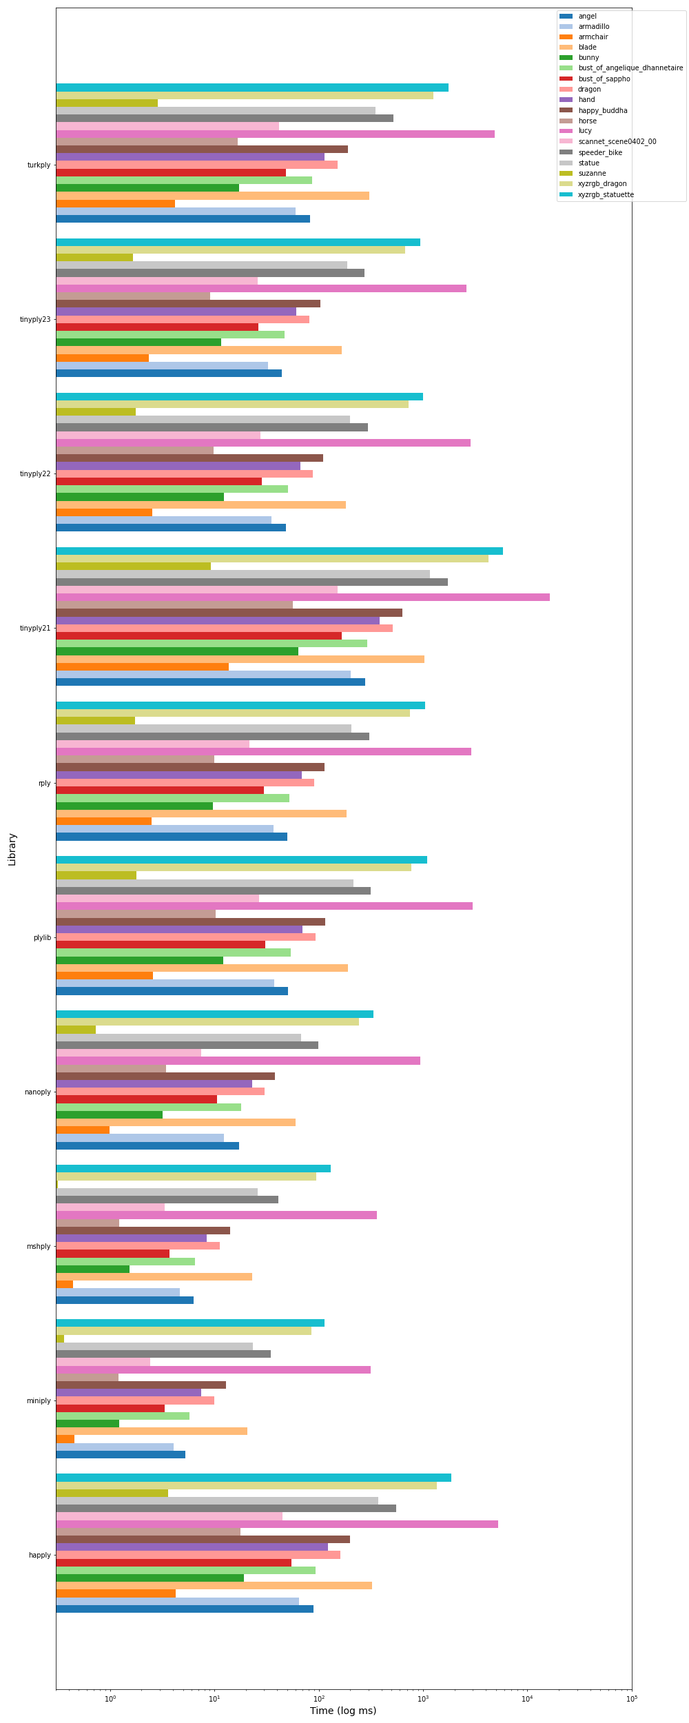
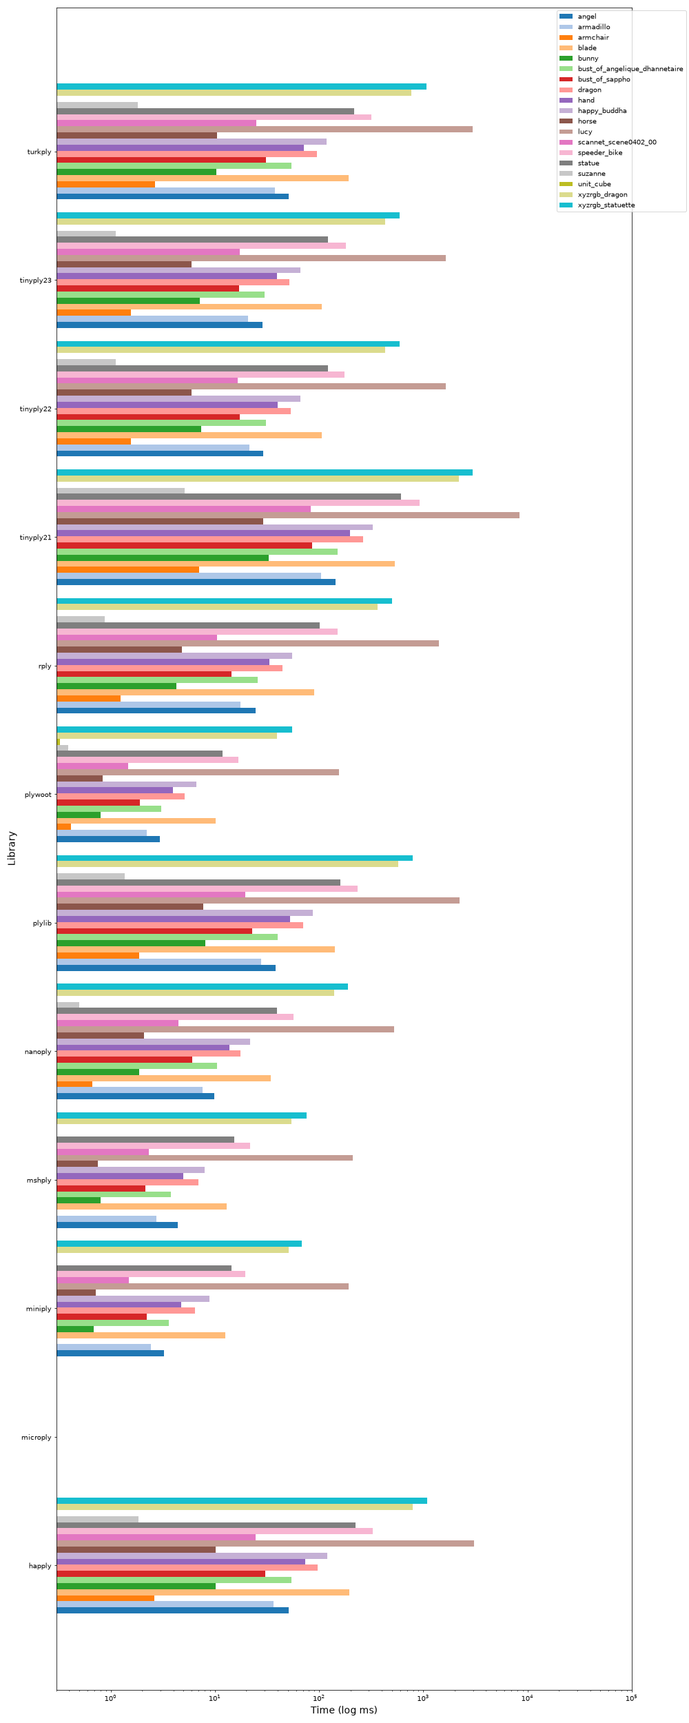
New results

diff --git a/assets/binary_read_full_table.md b/assets/binary_read_full_table.md
@@ -1,12 +1,14 @@
-|           |                  angel |              armadillo |               armchair |                  blade |                  bunny |bust_of_angelique_dhannetaire |         bust_of_sappho |                 dragon |                   hand |           happy_buddha |                  horse |                   lucy |   scannet_scene0402_00 |           speeder_bike |                 statue |                suzanne |          xyzrgb_dragon |       xyzrgb_statuette |
-|----------:|-----------------------:|-----------------------:|-----------------------:|-----------------------:|-----------------------:|-----------------------:|-----------------------:|-----------------------:|-----------------------:|-----------------------:|-----------------------:|-----------------------:|-----------------------:|-----------------------:|-----------------------:|-----------------------:|-----------------------:|-----------------------:|
-|happly     |    88.445 |    64.274 |     4.258 |   325.557 |    19.079 |    93.516 |    54.386 |   160.457 |   121.754 |   199.912 |    17.648 |  5262.958 |    44.660 |   550.460 |   370.124 |     3.571 |  1353.474 |  1875.299 |
-|miniply    |     5.230 |     4.038 |     0.453 |    20.545 |     1.218 |     5.782 |     3.351 |    10.001 |     7.517 |    12.814 |     1.200 |   314.586 |     2.406 |    34.778 |    23.374 |     0.361 |    85.584 |   113.582 |
-|mshply     |     6.291 |     4.655 |     0.442 |    23.160 |     1.530 |     6.529 |     3.713 |    11.306 |     8.460 |    14.123 |     1.221 |   358.437 |     3.344 |    40.842 |    26.081 |     0.316 |    94.944 |   130.534 |
-|nanoply    |    17.132 |    12.368 |     0.980 |    59.838 |     3.173 |    17.967 |    10.547 |    30.325 |    23.152 |    37.782 |     3.420 |   943.641 |     7.451 |    99.336 |    67.998 |     0.733 |   242.561 |   335.208 |
-|plylib     |    50.833 |    37.274 |     2.568 |   191.084 |    12.096 |    54.282 |    30.553 |    92.977 |    69.976 |   116.054 |    10.338 |  3001.837 |    26.881 |   314.834 |   215.549 |     1.789 |   773.190 |  1091.140 |
-|rply       |    49.650 |    36.663 |     2.477 |   183.797 |     9.671 |    52.231 |    29.577 |    90.467 |    68.424 |   113.416 |    10.006 |  2915.948 |    21.574 |   304.658 |   206.121 |     1.722 |   745.852 |  1046.701 |
-|tinyply21  |   277.337 |   202.876 |    13.613 |  1037.394 |    63.447 |   293.176 |   165.735 |   510.236 |   383.634 |   635.345 |    56.351 | 16423.687 |   152.337 |  1724.308 |  1166.416 |     9.289 |  4232.953 |  5851.870 |
-|tinyply22  |    48.296 |    35.261 |     2.535 |   182.717 |    12.333 |    50.620 |    28.639 |    87.839 |    66.538 |   110.064 |     9.812 |  2833.718 |    27.499 |   295.202 |   200.226 |     1.752 |   725.668 |  1006.522 |
-|tinyply23  |    44.378 |    32.509 |     2.342 |   165.429 |    11.649 |    46.669 |    26.434 |    81.102 |    60.951 |   102.839 |     9.085 |  2615.109 |    25.929 |   274.127 |   187.128 |     1.648 |   674.574 |   934.870 |
-|turkply    |    82.274 |    60.000 |     4.161 |   307.146 |    17.248 |    86.782 |    48.758 |   152.218 |   114.361 |   190.139 |    16.737 |  4881.280 |    41.446 |   515.975 |   349.348 |     2.862 |  1262.301 |  1755.570 |
+|           |                  angel |              armadillo |               armchair |                  blade |                  bunny |bust_of_angelique_dhannetaire |         bust_of_sappho |                 dragon |                   hand |           happy_buddha |                  horse |                   lucy |   scannet_scene0402_00 |           speeder_bike |                 statue |                suzanne |              unit_cube |          xyzrgb_dragon |       xyzrgb_statuette |
+|----------:|-----------------------:|-----------------------:|-----------------------:|-----------------------:|-----------------------:|-----------------------:|-----------------------:|-----------------------:|-----------------------:|-----------------------:|-----------------------:|-----------------------:|-----------------------:|-----------------------:|-----------------------:|-----------------------:|-----------------------:|-----------------------:|-----------------------:|
+|happly     |    51.307 |    36.780 |     2.617 |   194.600 |    10.109 |    54.651 |    30.396 |    96.459 |    73.851 |   119.480 |    10.134 |  3057.013 |    24.524 |   325.804 |   222.165 |     1.847 |     0.000 |   788.288 |  1089.001 |
+|microply   |     0.000 |     0.000 |     0.000 |     0.000 |     0.000 |     0.000 |     0.000 |     0.000 |     0.000 |     0.000 |     0.000 |     0.000 |     0.000 |     0.000 |     0.000 |     0.000 |     0.000 |     0.000 |     0.000 |
+|miniply    |     3.257 |     2.424 |     0.301 |    12.597 |     0.689 |     3.608 |     2.235 |     6.461 |     4.719 |     8.866 |     0.714 |   193.157 |     1.484 |    19.644 |    14.371 |     0.242 |     0.101 |    51.092 |    67.884 |
+|mshply     |     4.373 |     2.736 |     0.273 |    12.959 |     0.801 |     3.786 |     2.162 |     6.942 |     4.951 |     7.984 |     0.759 |   209.932 |     2.317 |    21.894 |    15.442 |     0.228 |     0.083 |    54.509 |    76.372 |
+|nanoply    |     9.910 |     7.596 |     0.665 |    34.606 |     1.884 |    10.554 |     6.058 |    17.706 |    13.851 |    21.786 |     2.082 |   528.220 |     4.503 |    57.006 |    39.385 |     0.496 |     0.163 |   139.277 |   189.836 |
+|plylib     |    38.106 |    27.652 |     1.890 |   142.325 |     8.043 |    40.283 |    22.681 |    70.013 |    52.490 |    87.644 |     7.767 |  2214.627 |    19.542 |   234.880 |   160.154 |     1.355 |     0.081 |   572.537 |   791.788 |
+|plywoot    |     2.956 |     2.218 |     0.414 |    10.126 |     0.802 |     3.052 |     1.894 |     5.117 |     3.934 |     6.659 |     0.839 |   154.298 |     1.478 |    16.936 |    11.788 |     0.391 |     0.326 |    39.711 |    55.055 |
+|rply       |    24.463 |    17.599 |     1.242 |    89.771 |     4.301 |    25.687 |    14.421 |    44.335 |    33.461 |    55.132 |     4.836 |  1401.407 |    10.428 |   150.138 |   102.045 |     0.874 |     0.076 |   362.501 |   501.380 |
+|tinyply21  |   143.124 |   104.801 |     7.057 |   529.376 |    33.024 |   150.948 |    85.741 |   263.490 |   197.531 |   326.551 |    29.137 |  8384.984 |    82.647 |   914.953 |   615.366 |     5.144 |     0.140 |  2196.075 |  2987.501 |
+|tinyply22  |    29.214 |    21.429 |     1.560 |   106.423 |     7.424 |    30.890 |    17.360 |    53.192 |    40.195 |    66.553 |     5.959 |  1649.370 |    16.547 |   176.639 |   120.815 |     1.111 |     0.136 |   428.999 |   593.572 |
+|tinyply23  |    28.627 |    20.811 |     1.555 |   105.864 |     7.171 |    30.181 |    17.053 |    52.235 |    39.366 |    65.810 |     5.942 |  1646.720 |    17.298 |   181.393 |   120.987 |     1.116 |     0.140 |   427.352 |   590.789 |
+|turkply    |    51.289 |    37.632 |     2.671 |   190.903 |    10.376 |    54.291 |    30.715 |    94.647 |    71.410 |   118.895 |    10.512 |  2995.316 |    25.130 |   317.476 |   216.611 |     1.830 |     0.078 |   771.513 |  1067.680 |

diff --git a/assets/binary_write_full_table.md b/assets/binary_write_full_table.md
@@ -1,11 +1,12 @@
-|           |                  angel |              armadillo |               armchair |                  blade |                  bunny |bust_of_angelique_dhannetaire |         bust_of_sappho |                 dragon |                   hand |           happy_buddha |                  horse |                   lucy |   scannet_scene0402_00 |           speeder_bike |                 statue |                suzanne |          xyzrgb_dragon |       xyzrgb_statuette |
-|----------:|-----------------------:|-----------------------:|-----------------------:|-----------------------:|-----------------------:|-----------------------:|-----------------------:|-----------------------:|-----------------------:|-----------------------:|-----------------------:|-----------------------:|-----------------------:|-----------------------:|-----------------------:|-----------------------:|-----------------------:|-----------------------:|
-|happly     |   220.528 |   157.640 |    13.329 |   805.793 |    35.839 |   230.896 |   140.035 |   397.211 |   290.141 |   503.060 |    46.380 | 13193.011 |    85.328 |  1345.406 |   903.420 |    11.094 |  3268.281 |  4541.939 |
-|mshply     |    14.276 |    10.920 |     4.234 |    41.504 |     6.176 |    13.669 |    21.503 |    23.386 |    17.089 |    26.574 |     5.267 |   630.551 |     9.754 |    68.129 |    46.685 |     3.948 |   157.048 |   220.589 |
-|nanoply    |    24.729 |    17.581 |     4.315 |    61.826 |     7.752 |    23.997 |    27.460 |    36.958 |    26.348 |    43.461 |     7.497 |   903.703 |    14.176 |   101.987 |    72.508 |     4.320 |   234.622 |   325.996 |
-|plylib     |    50.769 |    36.744 |     5.990 |   178.403 |    11.289 |    51.877 |    43.471 |    92.128 |    66.856 |   109.671 |    13.208 |  2788.711 |    24.394 |   289.656 |   201.366 |     5.378 |   715.110 |   996.618 |
-|rply       |    45.732 |    31.834 |     5.922 |   145.537 |    16.260 |    48.314 |    39.252 |    75.421 |    55.912 |    93.812 |    11.438 |  2307.140 |    21.904 |   243.069 |   163.749 |     5.186 |   591.606 |   812.830 |
-|tinyply21  |   225.086 |   162.373 |    14.647 |   817.570 |    37.383 |   233.447 |   144.652 |   405.959 |   302.321 |   499.618 |    48.835 | 12858.260 |    88.514 |  1363.921 |   925.859 |    11.006 |  3322.588 |  4633.514 |
-|tinyply22  |    82.974 |    63.026 |     8.198 |   296.006 |    17.260 |    87.133 |    63.045 |   150.758 |   114.110 |   183.083 |    20.094 |  4665.612 |    36.971 |   488.466 |   330.931 |     6.800 |  1198.054 |  1662.805 |
-|tinyply23  |    88.656 |    64.407 |     8.006 |   313.482 |    17.327 |    91.530 |    66.100 |   159.694 |   119.045 |   197.390 |    20.809 |  4977.320 |    38.156 |   518.585 |   355.445 |     6.905 |  1276.036 |  1773.292 |
-|turkply    |    98.136 |    72.246 |     8.464 |   349.143 |    18.465 |   101.845 |    71.626 |   176.988 |   132.032 |   216.926 |    22.223 |  5540.560 |    42.713 |   585.072 |   396.622 |     7.011 |  1425.870 |  1978.077 |
+|           |                  angel |              armadillo |               armchair |                  blade |                  bunny |bust_of_angelique_dhannetaire |         bust_of_sappho |                 dragon |                   hand |           happy_buddha |                  horse |                   lucy |   scannet_scene0402_00 |           speeder_bike |                 statue |                suzanne |              unit_cube |          xyzrgb_dragon |       xyzrgb_statuette |
+|----------:|-----------------------:|-----------------------:|-----------------------:|-----------------------:|-----------------------:|-----------------------:|-----------------------:|-----------------------:|-----------------------:|-----------------------:|-----------------------:|-----------------------:|-----------------------:|-----------------------:|-----------------------:|-----------------------:|-----------------------:|-----------------------:|-----------------------:|
+|happly     |   114.605 |    83.227 |     5.344 |   413.595 |    16.138 |   118.423 |    63.464 |   201.274 |   148.630 |   256.504 |    22.219 |  6633.298 |    43.601 |   673.905 |   457.450 |     3.924 |     0.000 |  1643.305 |  2307.627 |
+|mshply     |     7.316 |     4.086 |     1.382 |    20.892 |     1.303 |     5.759 |     3.372 |    11.025 |     7.760 |    12.960 |     2.018 |   326.124 |     5.482 |    35.133 |    25.002 |     1.565 |     0.202 |    81.553 |   116.675 |
+|nanoply    |    13.377 |     9.121 |     1.477 |    33.520 |     2.203 |    13.578 |     7.057 |    18.969 |    14.082 |    23.348 |     2.669 |   504.545 |     7.588 |    55.995 |    39.209 |     1.481 |     0.176 |   130.001 |   180.181 |
+|plylib     |    33.126 |    23.309 |     1.873 |   115.238 |     4.982 |    33.176 |    18.623 |    57.936 |    43.753 |    70.947 |     6.623 |  1884.256 |    14.763 |   191.970 |   130.443 |     1.844 |     0.224 |   473.598 |   657.855 |
+|plywoot    |    12.531 |     8.909 |     1.745 |    41.930 |     2.799 |    11.829 |     7.057 |    20.320 |    15.583 |    25.940 |     2.883 |   643.410 |     7.472 |    68.084 |    46.446 |     1.585 |     0.324 |   164.550 |   229.457 |
+|rply       |    20.204 |    13.541 |     1.432 |    68.808 |     3.145 |    19.764 |    13.972 |    35.308 |    25.920 |    43.224 |     4.322 |  1107.694 |    10.102 |   115.002 |    79.495 |     1.829 |     0.159 |   282.038 |   397.560 |
+|tinyply21  |    86.071 |    62.005 |     4.585 |   318.938 |    13.064 |    90.938 |    51.315 |   157.939 |   118.969 |   196.016 |    17.991 |  5127.718 |    38.132 |   556.893 |   369.232 |     3.486 |     0.426 |  1354.078 |  1832.296 |
+|tinyply22  |    34.003 |    24.255 |     1.990 |   122.605 |     5.371 |    35.759 |    19.872 |    61.852 |    45.676 |    75.559 |     7.087 |  1962.662 |    15.429 |   202.194 |   139.132 |     1.807 |     0.238 |   496.989 |   693.797 |
+|tinyply23  |    34.091 |    24.168 |     2.062 |   122.477 |     5.278 |    34.557 |    19.506 |    60.871 |    45.471 |    75.282 |     7.143 |  1985.028 |    16.465 |   208.998 |   143.223 |     2.049 |     0.219 |   495.946 |   699.383 |
+|turkply    |    55.369 |    38.855 |     2.642 |   196.343 |     7.939 |    56.856 |    31.281 |    96.742 |    72.847 |   122.981 |    10.843 |  3195.042 |    22.666 |   329.815 |   225.639 |     2.249 |     0.281 |   817.856 |  1140.415 |

diff --git a/assets/ascii_read_full_table.md b/assets/ascii_read_full_table.md
@@ -1,13 +1,14 @@
 |           |                  angel |              armadillo |               armchair |                  blade |                  bunny |bust_of_angelique_dhannetaire |         bust_of_sappho |                 dragon |                   hand |           happy_buddha |                  horse |                   lucy |   scannet_scene0402_00 |           speeder_bike |                 statue |                suzanne |          xyzrgb_dragon |       xyzrgb_statuette |
 |----------:|-----------------------:|-----------------------:|-----------------------:|-----------------------:|-----------------------:|-----------------------:|-----------------------:|-----------------------:|-----------------------:|-----------------------:|-----------------------:|-----------------------:|-----------------------:|-----------------------:|-----------------------:|-----------------------:|-----------------------:|-----------------------:|
-|happly     |     0.000 |  1784.472 |   118.915 |  8670.360 |   439.915 |     0.000 |     0.000 |  4481.201 |  3331.531 |  5592.547 |   496.337 |145947.836 |  1223.984 | 15226.472 | 10386.426 |    80.341 | 37172.141 | 51617.590 |
-|microply   |   170.248 |   121.155 |     8.017 |   501.468 |    33.457 |   276.342 |   151.115 |   306.123 |   225.599 |   381.618 |    34.119 | 10114.534 |    75.482 |  1051.357 |   711.489 |     5.437 |  2601.632 |  3602.354 |
-|miniply    |    40.852 |    30.280 |     2.332 |   134.499 |     7.739 |    52.000 |    29.110 |    71.209 |    51.533 |    88.732 |     8.530 |  2253.975 |    19.298 |   238.858 |   159.580 |     2.030 |   577.165 |   798.351 |
-|mshply     |   293.840 |   206.977 |    13.192 |   904.990 |    55.663 |   462.922 |   248.969 |   542.321 |   388.762 |   678.744 |    58.659 | 18034.860 |   127.533 |  1851.897 |  1239.134 |     9.055 |  4621.878 |  6439.838 |
-|nanoply    |  1214.030 |   863.302 |    55.382 |  4102.847 |   221.426 |  1719.558 |   946.103 |  2164.268 |  1590.781 |  2698.421 |   237.606 | 71752.611 |   580.219 |  7434.243 |  5079.409 |    37.881 | 18189.628 | 25179.098 |
-|plylib     |   476.120 |   345.294 |    23.636 |  1624.023 |    91.548 |   775.692 |   432.038 |   888.196 |   640.481 |  1100.926 |   100.276 | 27913.594 |   232.122 |  2944.850 |  1984.270 |    17.662 |  7233.144 | 10008.429 |
-|rply       |   255.641 |   183.188 |    11.662 |   810.350 |    48.565 |   396.401 |   218.622 |   462.969 |   343.504 |   577.013 |    50.672 | 15505.927 |   116.709 |  1604.587 |  1076.422 |     7.905 |  3985.982 |  5512.328 |
-|tinyply21  |  1752.946 |  1258.073 |    81.694 |  6087.122 |   287.321 |  2077.615 |  1157.690 |  3167.115 |  2343.569 |  3939.687 |   350.333 |103656.878 |   777.874 | 10823.005 |  7417.755 |    55.396 | 26523.707 | 36753.962 |
-|tinyply22  |  1149.408 |   824.110 |    52.987 |  3877.018 |   177.867 |  1307.636 |   723.416 |  2055.345 |  1515.408 |  2562.497 |   226.982 | 67773.530 |   474.789 |  7077.513 |  4839.779 |    36.076 | 17364.324 | 24073.700 |
-|tinyply23  |  1134.152 |   811.953 |    52.710 |  3824.634 |   176.151 |  1289.369 |   715.222 |  2021.834 |  1491.002 |  2523.636 |   223.752 | 67416.315 |   468.571 |  6996.360 |  4776.635 |    35.431 | 17187.982 | 23869.487 |
-|turkply    |   308.290 |   223.986 |    14.545 |   988.635 |    56.336 |   462.039 |   249.270 |   571.017 |   420.858 |   707.014 |    61.849 | 18694.304 |   132.315 |  1933.317 |  1298.440 |     9.732 |  4770.202 |  6655.787 |
+|happly     |   883.387 |   641.727 |    42.087 |  3131.651 |   156.351 |     0.000 |     0.000 |  1602.839 |  1181.657 |  2005.578 |   178.961 | 52653.845 |   439.901 |  5467.897 |  3698.055 |    29.695 | 13428.564 | 18656.723 |
+|microply   |    77.128 |    54.926 |     4.024 |   226.468 |    15.244 |   125.002 |    67.766 |   136.117 |   100.680 |   168.470 |    15.453 |  4496.079 |    33.207 |   470.260 |   317.198 |     2.417 |  1158.847 |  1590.081 |
+|miniply    |    22.955 |    17.048 |     1.096 |    74.568 |     4.075 |    27.451 |    15.179 |    38.876 |    27.674 |    48.366 |     4.373 |  1212.265 |    10.378 |   130.192 |    86.422 |     0.722 |   314.119 |   435.382 |
+|mshply     |   138.279 |    97.402 |     5.813 |   422.254 |    25.811 |   211.356 |   115.465 |   255.368 |   180.818 |   317.726 |    27.442 |  8499.569 |    60.578 |   868.517 |   579.271 |     3.979 |  2163.848 |  2997.318 |
+|nanoply    |   436.256 |   316.204 |    19.935 |  1487.510 |    78.399 |   588.202 |   325.861 |   786.297 |   568.594 |   976.928 |    88.085 | 25916.288 |   208.041 |  2665.646 |  1826.070 |    13.302 |  6557.880 |  9153.084 |
+|plylib     |   196.547 |   142.936 |     9.270 |   663.273 |    37.402 |   310.657 |   174.360 |   366.671 |   264.512 |   458.081 |    40.765 | 11430.270 |    97.311 |  1214.951 |   816.146 |     6.653 |  2964.687 |  4123.064 |
+|plywoot    |    67.312 |    48.165 |     3.199 |   188.293 |    10.735 |    75.899 |    42.454 |   120.315 |    85.361 |   149.304 |    13.344 |  3845.223 |    27.037 |   405.676 |   273.418 |     2.264 |  1014.269 |  1383.785 |
+|rply       |   103.839 |    74.492 |     4.712 |   303.512 |    20.269 |   162.130 |    88.458 |   181.617 |   132.422 |   225.446 |    20.921 |  5943.651 |    48.025 |   616.688 |   414.843 |     3.240 |  1536.976 |  2114.271 |
+|tinyply21  |   678.383 |   494.049 |    31.387 |  2367.008 |   114.190 |   827.203 |   460.254 |  1235.755 |   897.213 |  1538.394 |   137.382 | 40396.197 |   306.866 |  4180.664 |  2846.065 |    21.329 | 10299.247 | 14353.333 |
+|tinyply22  |   422.226 |   304.582 |    19.049 |  1437.438 |    66.432 |   479.747 |   268.829 |   759.866 |   550.158 |   947.037 |    84.994 | 25171.140 |   176.113 |  2584.433 |  1775.150 |    12.993 |  6352.553 |  8887.962 |
+|tinyply23  |   419.988 |   306.700 |    19.108 |  1440.979 |    65.872 |   483.466 |   269.623 |   757.595 |   545.537 |   941.641 |    85.264 | 25202.882 |   174.064 |  2578.180 |  1772.398 |    12.853 |  6349.414 |  8896.340 |
+|turkply    |   133.481 |    94.249 |     5.867 |   405.303 |    24.433 |   191.322 |   104.641 |   238.777 |   174.421 |   296.331 |    26.234 |  7791.011 |    56.524 |   812.384 |   546.313 |     3.926 |  2002.717 |  2772.913 |

diff --git a/assets/ascii_write_full_table.md b/assets/ascii_write_full_table.md
@@ -1,11 +1,12 @@
 |           |                  angel |              armadillo |               armchair |                  blade |                  bunny |bust_of_angelique_dhannetaire |         bust_of_sappho |                 dragon |                   hand |           happy_buddha |                  horse |                   lucy |   scannet_scene0402_00 |           speeder_bike |                 statue |                suzanne |          xyzrgb_dragon |       xyzrgb_statuette |
 |----------:|-----------------------:|-----------------------:|-----------------------:|-----------------------:|-----------------------:|-----------------------:|-----------------------:|-----------------------:|-----------------------:|-----------------------:|-----------------------:|-----------------------:|-----------------------:|-----------------------:|-----------------------:|-----------------------:|-----------------------:|-----------------------:|
-|happly     |     0.000 |  1082.385 |    75.054 |  5394.654 |   223.139 |     0.000 |     0.000 |  2685.578 |  2024.498 |  3377.741 |   303.442 | 87990.449 |   575.365 |  9162.074 |  6215.075 |    52.436 | 22539.121 | 31310.185 |
-|mshply     |   636.233 |   460.677 |    32.822 |  2337.234 |    95.821 |   654.982 |   369.309 |  1153.393 |   850.805 |  1433.740 |   128.633 | 37485.582 |   244.925 |  3867.637 |  2619.168 |    23.425 |  9525.258 | 13291.650 |
-|nanoply    |  1348.396 |   975.310 |    67.456 |  4897.357 |   203.195 |  1402.495 |   792.357 |  2486.349 |  1833.170 |  3080.349 |   279.858 | 78423.314 |   519.292 |  8223.574 |  5567.840 |    49.517 | 20037.909 | 27711.484 |
-|plylib     |   457.922 |   333.572 |    24.561 |  1638.777 |    72.036 |   505.162 |   286.573 |   859.028 |   619.882 |  1071.872 |    96.432 | 27312.697 |   184.327 |  2841.028 |  1905.589 |    18.848 |  6941.210 |  9643.137 |
-|rply       |   609.781 |   442.681 |    31.864 |  2192.624 |    94.710 |   632.235 |   360.014 |  1139.574 |   827.868 |  1421.977 |   128.893 | 35318.924 |   236.477 |  3751.085 |  2524.026 |    25.556 |  9106.262 | 12552.671 |
-|tinyply21  |  1474.259 |  1068.016 |    73.284 |  5393.185 |   221.580 |  1540.420 |   870.206 |  2742.333 |  2016.925 |  3407.911 |   304.475 | 86208.005 |   567.604 |  9085.286 |  6134.986 |    52.581 | 22156.857 | 30692.067 |
-|tinyply22  |  1506.848 |  1098.698 |    75.687 |  5488.472 |   227.880 |  1584.562 |   892.746 |  2801.347 |  2063.148 |  3476.269 |   311.379 | 87895.490 |   578.697 |  9282.130 |  6267.719 |    53.041 | 22693.798 | 31371.449 |
-|tinyply23  |  1471.047 |  1071.363 |    73.473 |  5353.151 |   223.153 |  1539.726 |   870.684 |  2730.562 |  2013.990 |  3395.636 |   307.031 | 86083.048 |   568.115 |  9036.070 |  6136.620 |    53.124 | 22141.241 | 30697.163 |
-|turkply    |   614.742 |   448.412 |    32.288 |  2225.506 |    95.255 |   638.350 |   363.876 |  1149.471 |   842.986 |  1426.148 |   129.430 | 35821.573 |   241.227 |  3771.397 |  2551.556 |    24.535 |  9198.683 | 12742.084 |
+|happly     |   565.844 |   411.255 |    27.219 |  2025.593 |    79.863 |     0.000 |     0.000 |  1010.497 |   769.054 |  1264.480 |   110.373 | 34548.564 |   217.270 |  3552.470 |  2416.475 |    18.655 |  8790.975 | 12218.742 |
+|mshply     |   222.821 |   166.035 |    10.615 |   821.693 |    33.045 |   232.212 |   131.797 |   407.180 |   299.636 |   506.066 |    44.727 | 13651.836 |    87.823 |  1388.252 |   928.807 |     7.598 |  3455.895 |  4811.877 |
+|nanoply    |   488.625 |   353.186 |    23.514 |  1769.303 |    73.176 |   518.151 |   286.143 |   914.245 |   663.139 |  1133.881 |   100.524 | 28765.712 |   198.886 |  3017.723 |  2054.683 |    16.576 |  7414.952 | 10308.199 |
+|plylib     |   187.091 |   131.238 |     8.538 |   648.256 |    28.321 |   164.419 |    93.252 |   354.460 |   246.319 |   432.235 |    38.876 | 11088.968 |    72.649 |  1146.464 |   767.057 |     6.449 |  2844.824 |  3909.242 |
+|plywoot    |    46.694 |    32.307 |     2.344 |   167.531 |     7.142 |    43.737 |    23.876 |    89.298 |    52.977 |    99.120 |     9.344 |  2711.543 |    21.085 |   266.622 |   171.003 |     3.876 |   667.893 |   968.624 |
+|rply       |   224.812 |   160.128 |    10.610 |   790.838 |    33.578 |   232.071 |   131.245 |   415.079 |   298.965 |   518.609 |    46.189 | 13222.052 |    88.374 |  1379.556 |   928.303 |     7.948 |  3387.122 |  4728.606 |
+|tinyply21  |   545.314 |   387.763 |    25.878 |  1966.032 |    79.806 |   585.550 |   314.161 |  1002.953 |   730.913 |  1260.155 |   109.776 | 31492.508 |   215.824 |  3348.606 |  2262.154 |    18.178 |  8150.814 | 11286.773 |
+|tinyply22  |   543.837 |   394.065 |    26.232 |  1978.098 |    81.450 |   568.218 |   317.160 |  1011.714 |   737.934 |  1259.763 |   112.480 | 31812.652 |   211.256 |  3379.466 |  2323.949 |    18.711 |  8221.720 | 11352.533 |
+|tinyply23  |   508.740 |   369.531 |    24.857 |  1845.647 |    76.000 |   529.675 |   308.023 |   942.248 |   691.393 |  1201.959 |   104.282 | 29811.905 |   195.087 |  3147.851 |  2132.560 |    17.292 |  7715.605 | 10640.929 |
+|turkply    |   232.254 |   164.757 |    12.198 |   829.518 |    34.748 |   238.637 |   135.146 |   432.684 |   308.893 |   535.446 |    47.052 | 13729.157 |    90.975 |  1431.443 |   981.697 |     8.262 |  3546.555 |  4936.313 |

diff --git a/assets/ascii_read_avg_table.md b/assets/ascii_read_avg_table.md
@@ -1,13 +1,14 @@
 |Method     |Time(ms)   |
 ----------:|----------:|
-|happly     |  19104.671(75.3x)|
-|microply   |   1131.752(4.5x)|
-|miniply    | *   253.671(1.0x)*|
-|mshply     |   2009.957(7.9x)|
-|nanoply    |   8003.712(31.6x)|
-|plylib     |   3157.350(12.4x)|
-|rply       |   1731.580(6.8x)|
-|tinyply21  |  11583.986(45.7x)|
-|tinyply22  |   7561.799(29.8x)|
-|tinyply23  |   7500.844(29.6x)|
-|turkply    |   2086.552(8.2x)|
+|happly     |   6512.432(47.4x)|
+|microply   |    503.298(3.7x)|
+|miniply    | *   137.286(1.0x)*|
+|mshply     |    942.823(6.9x)|
+|nanoply    |   2889.588(21.0x)|
+|plylib     |   1295.420(9.4x)|
+|plywoot    |    430.892(3.1x)|
+|rply       |    666.417(4.9x)|
+|tinyply21  |   4510.273(32.9x)|
+|tinyply22  |   2794.483(20.4x)|
+|tinyply23  |   2795.661(20.4x)|
+|turkply    |    871.158(6.3x)|

diff --git a/assets/binary_read_avg_table.md b/assets/binary_read_avg_table.md
@@ -1,12 +1,14 @@
 |Method     |Time(ms)   |
 ----------:|----------:|
-|happly     |    589.435(16.4x)|
-|miniply    | *    35.935(1.0x)*|
-|mshply     |     40.885(1.1x)|
-|nanoply    |    106.312(3.0x)|
-|plylib     |    338.514(9.4x)|
-|rply       |    327.164(9.1x)|
-|tinyply21  |   1844.445(51.3x)|
-|tinyply22  |    318.069(8.9x)|
-|tinyply23  |    294.265(8.2x)|
-|turkply    |    549.367(15.3x)|
+|happly     |    343.835(20.5x)|
+|microply   |   1000.000(59.7x)|
+|miniply    |     20.729(1.2x)|
+|mshply     |     22.553(1.3x)|
+|nanoply    |     57.136(3.4x)|
+|plylib     |    236.519(14.1x)|
+|plywoot    | *    16.737(1.0x)*|
+|rply       |    149.689(8.9x)|
+|tinyply21  |    897.768(53.6x)|
+|tinyply22  |    177.231(10.6x)|
+|tinyply23  |    176.864(10.6x)|
+|turkply    |    319.420(19.1x)|

diff --git a/assets/ascii_write_avg_table.md b/assets/ascii_write_avg_table.md
@@ -1,11 +1,12 @@
 |Method     |Time(ms)   |
 ----------:|----------:|
-|happly     |  11534.080(3.8x)|
-|mshply     |   4178.405(1.4x)|
-|nanoply    |   8772.179(2.9x)|
-|plylib     | *  3045.147(1.0x)*|
-|rply       |   3966.512(1.3x)|
-|tinyply21  |   9667.221(3.2x)|
-|tinyply22  |   9870.520(3.2x)|
-|tinyply23  |   9653.622(3.2x)|
-|turkply    |   4017.640(1.3x)|
+|happly     |   4251.708(14.2x)|
+|mshply     |   1511.551(5.1x)|
+|nanoply    |   3227.812(10.8x)|
+|plylib     |   1231.592(4.1x)|
+|plywoot    | *   299.168(1.0x)*|
+|rply       |   1478.005(4.9x)|
+|tinyply21  |   3543.509(11.8x)|
+|tinyply22  |   3575.069(12.0x)|
+|tinyply23  |   3347.977(11.2x)|
+|turkply    |   1538.652(5.1x)|

diff --git a/assets/binary_write_avg_table.md b/assets/binary_write_avg_table.md
@@ -1,11 +1,12 @@
 |Method     |Time(ms)   |
 ----------:|----------:|
-|happly     |   1454.963(19.8x)|
-|mshply     | *    73.406(1.0x)*|
-|nanoply    |    107.735(1.5x)|
-|plylib     |    315.647(4.3x)|
-|rply       |    261.940(3.6x)|
-|tinyply21  |   1449.753(19.7x)|
-|tinyply22  |    526.407(7.2x)|
-|tinyply23  |    560.677(7.6x)|
-|turkply    |    624.668(8.5x)|
+|happly     |    733.696(20.8x)|
+|mshply     | *    35.242(1.0x)*|
+|nanoply    |     55.714(1.6x)|
+|plylib     |    198.134(5.6x)|
+|plywoot    |     69.097(2.0x)|
+|rply       |    118.080(3.4x)|
+|tinyply21  |    547.373(15.5x)|
+|tinyply22  |    207.699(5.9x)|
+|tinyply23  |    209.590(5.9x)|
+|turkply    |    338.245(9.6x)|
